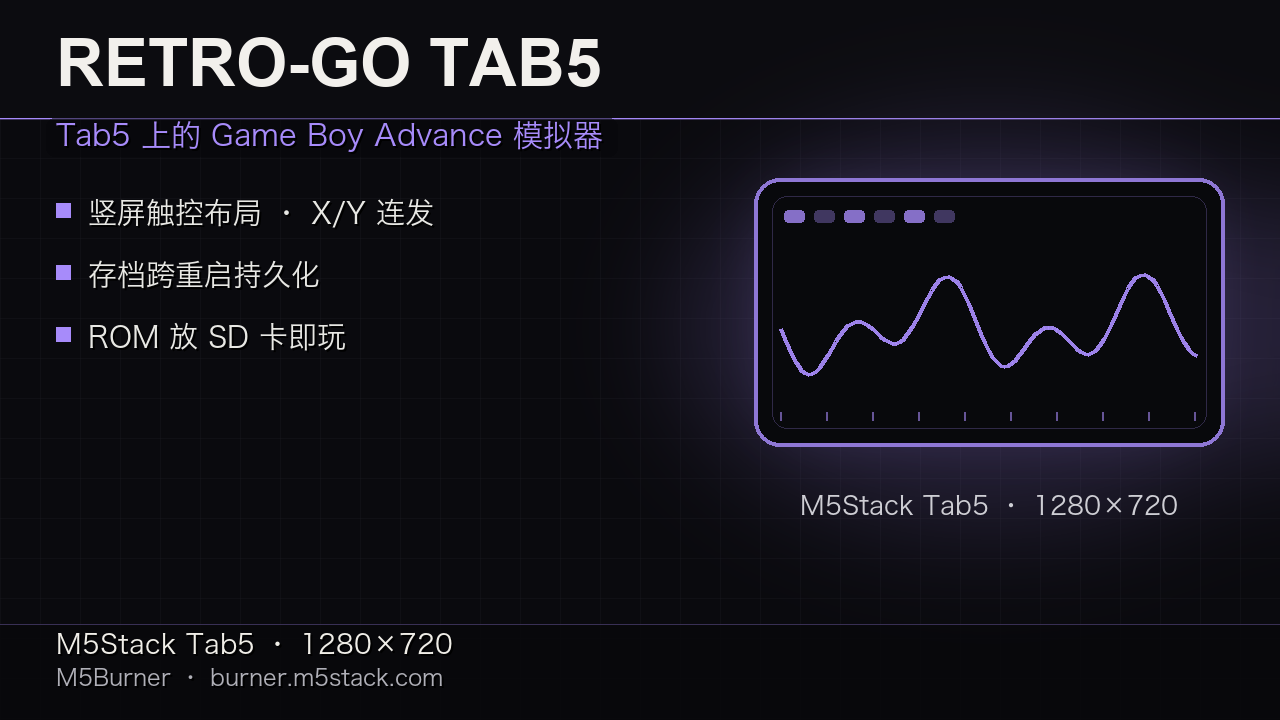
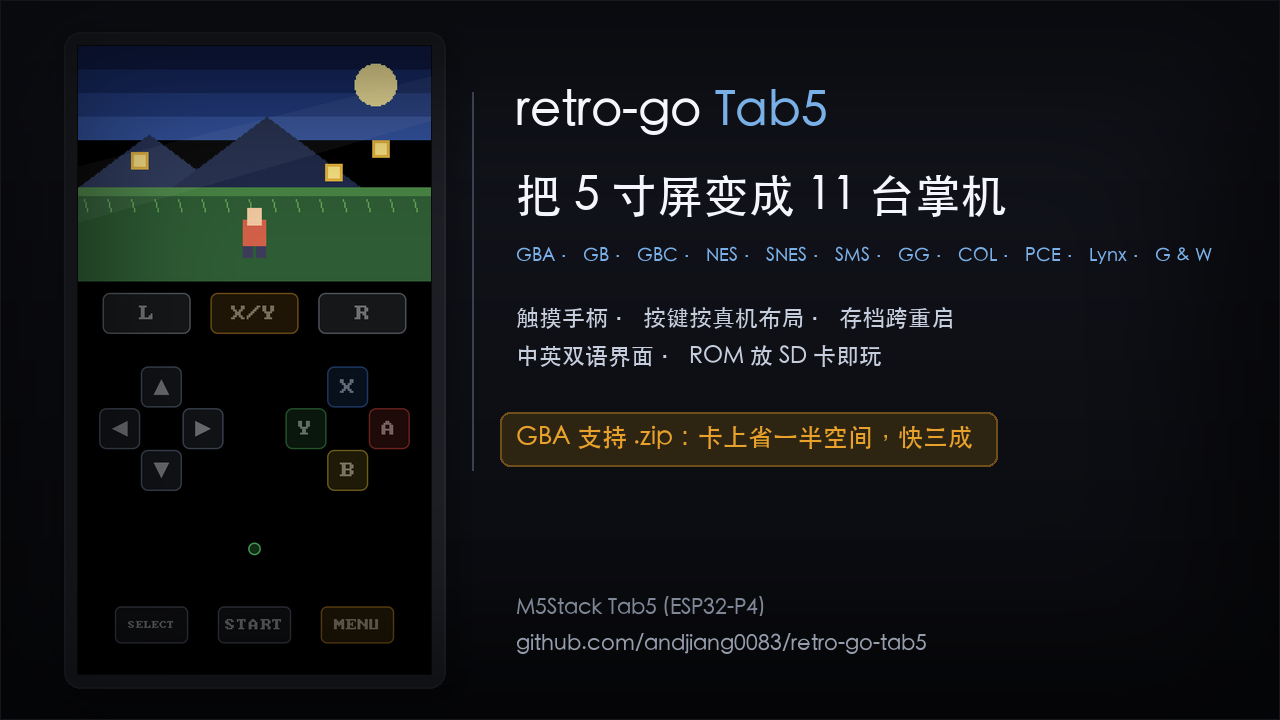
cover: 重做商店封面（11 机种 + 新增 zip）+ 入库封面生成器；修刷机脚本端口
改动摘要： 4 files changed, 211 insertions(+), 2 deletions(-)

M	publish.yaml
M	releases/cover-1280x720-retro-go-tab5-tab5.png
M	tools/flash-tab5.sh
A	tools/make-cover-1280.py

diff --git a/tools/make-cover-1280.py b/tools/make-cover-1280.py
@@ -1,0 +1,208 @@
+#!/usr/bin/env python3
+# -*- coding: utf-8 -*-
+"""生成 M5Burner 商店封面（1280×720 = burner.m5stack.com 规格）。
+
+为什么单独一个脚本：
+  上一张 1280×720 封面是临时手搓的，文案停留在"GBA 模拟器"时代（那时还只有 GBA），
+  而且 dist 包里那张甚至印着 v0.4.3 —— 两者都会过期。这里把封面变成**可复现产物**：
+    - 屏幕内容 = **真渲染**：复用 tools/preview-touch-overlay.py 的同一套键位表/字形/按键配方，
+      封面上的虚拟手柄与固件永远一致（不是画一张"差不多"的图）
+    - 文案改一处就够了（下面的 COPY 段），重新跑一次即可
+    - **不印版本号**：版本号只在条目里出现，封面跨版本复用（2026-10-08 定的纪律）
+
+用法:
+  python3 tools/make-cover-1280.py                       # 出 releases/ 规范封面
+  python3 tools/make-cover-1280.py --out /tmp/x.png      # 指定输出
+  python3 tools/make-cover-1280.py --palette B           # 换叠加层配色
+  python3 tools/make-cover-1280.py --also-dist 0.4.8     # 同时刷新 dist/m5burner-<ver>/cover-1280x720.png
+"""
+
+import argparse
+import importlib.util
+from pathlib import Path
+
+from PIL import Image, ImageDraw, ImageFont
+
+ROOT = Path(__file__).resolve().parent.parent
+W, H = 1280, 720
+
+# 复用预览工具的渲染（键位表 / 字形 / 按键与圆灯配方）—— 封面与固件同源
+_spec = importlib.util.spec_from_file_location("pv", ROOT / "tools/preview-touch-overlay.py")
+pv = importlib.util.module_from_spec(_spec)
+_spec.loader.exec_module(pv)
+
+FONT_CANDIDATES = (
+    "/System/Library/Fonts/STHeiti Medium.ttc",      # 本机实测可用（PingFang 在 macOS 26 上已不存在）
+    "/System/Library/Fonts/STHeiti Light.ttc",
+    "/System/Library/Fonts/Hiragino Sans GB.ttc",
+    "/System/Library/Fonts/PingFang.ttc",
+    "/System/Library/Fonts/Supplemental/Songti.ttc",
+    "/System/Library/Fonts/Helvetica.ttc",
+)
+
+# ---------------------------------------------------------------- 文案（改这里就够了）
+COPY = dict(
+    brand_a="retro-go",                       # 白
+    brand_b="Tab5",                           # 蓝
+    headline="把 5 寸屏变成 11 台掌机",
+    consoles="GBA · GB · GBC · NES · SNES · SMS · GG · COL · PCE · Lynx · G & W",
+    feat1="触摸手柄 · 按键按真机布局 · 存档跨重启",
+    feat2="中英双语界面 · ROM 放 SD 卡即玩",
+    chip="GBA 支持 .zip：卡上省一半空间，快三成",
+    dev="M5Stack Tab5 (ESP32-P4)",
+    url="github.com/andjiang0083/retro-go-tab5",
+)
+
+# 配色：底色偏冷，强调色沿用固件里的琥珀（电量灯那支）
+BG_TOP, BG_BOT = (20, 22, 30), (9, 10, 14)
+INK, INK_DIM, INK_MID = (244, 246, 252), (128, 136, 152), (198, 205, 220)
+ACCENT_BLUE = (122, 176, 232)
+ACCENT_WARM = (232, 162, 44)
+
+
+def font(size, bold=False):
+    """挑一个**真能画中文**的字体；找不到就报错，绝不静默退回位图字体（会出方块）。"""
+    for p in FONT_CANDIDATES:
+        if not Path(p).exists():
+            continue
+        try:
+            f = ImageFont.truetype(p, size)
+        except Exception:
+            continue
+        if f.getbbox("电量")[2] > 4:            # 有中文墨迹才认
+            if bold:
+                try:
+                    f.set_variation_by_name("Bold")
+                except Exception:
+                    pass
+            return f
+    raise SystemExit("✗ 找不到能画中文的系统字体")
+
+
+def device_screen(palette, alpha=48):
+    """720×1280 的真竖屏界面（游戏画面 + 触摸按键 + 电量圆灯），再缩到封面里的大小。
+
+    ⚠ alpha 是**叠加层自身的不透明度**：0 = 按键完全看不见（屏幕下半全黑）。
+      固件里这档值就是用户可调的"按键透明度"，封面取 48 让它既明显又不压游戏画面。
+    """
+    im = pv.render(alpha, palette, bg="game").convert("RGBA")
+    im.alpha_composite(pv.build_led(pv.LED_GREEN), (pv.LED_CX - 13, 1025 - 13))
+    return im.convert("RGB")
+
+
+def rounded(draw_img, box, radius, fill):
+    layer = Image.new("RGBA", draw_img.size, (0, 0, 0, 0))
+    ImageDraw.Draw(layer).rounded_rectangle(box, radius=radius, fill=fill)
+    draw_img.alpha_composite(layer)
+
+
+def shadow(canvas, box, radius, spread=14, alpha=110):
+    """设备下方/右侧的柔和投影 —— 只做深度，不做发光（发光在小屏上一眼塑料感）。"""
+    sh = Image.new("RGBA", canvas.size, (0, 0, 0, 0))
+    d = ImageDraw.Draw(sh)
+    for i, a in enumerate((alpha // 5, alpha // 3, alpha // 2)):
+        grow = spread - i * (spread // 3)
+        d.rounded_rectangle((box[0] - grow + 6, box[1] - grow + 10,
+                             box[2] + grow + 6, box[3] + grow + 10),
+                            radius=radius + grow, fill=(0, 0, 0, a))
+    canvas.alpha_composite(sh.filter(__import__("PIL.ImageFilter", fromlist=["GaussianBlur"])
+                                     .GaussianBlur(spread * 0.7)))
+
+
+def main():
+    ap = argparse.ArgumentParser()
+    ap.add_argument("--out", default=str(ROOT / "releases/cover-1280x720-retro-go-tab5-tab5.png"))
+    ap.add_argument("--palette", default="A", choices=("A", "B"))
+    ap.add_argument("--alpha", type=int, default=48, help="触摸叠加层不透明度（0=看不见）")
+    ap.add_argument("--also-dist", metavar="VERSION", default=None,
+                    help="同时刷新 dist/m5burner-<VERSION>/cover-1280x720.png")
+    args = ap.parse_args()
+
+    cover = Image.new("RGBA", (W, H), (0, 0, 0, 255))
+    d = ImageDraw.Draw(cover)
+    for y in range(H):                                  # 冷色竖向渐变（比纯黑有层次）
+        t = y / (H - 1)
+        d.line([(0, y), (W, y)],
+               fill=(int(BG_TOP[0] + (BG_BOT[0] - BG_TOP[0]) * t),
+                     int(BG_TOP[1] + (BG_BOT[1] - BG_TOP[1]) * t),
+                     int(BG_TOP[2] + (BG_BOT[2] - BG_TOP[2]) * t), 255))
+    d.rectangle([0, 0, W - 1, H - 1], outline=(44, 48, 60, 255))
+
+    # ---- 左：Tab5 竖屏设备（真渲染的屏幕）----
+    scr_w, scr_h = 353, 628                             # 720:1280 比例
+    sx, sy = 78, 46
+    shell = (sx - 14, sy - 14, sx + scr_w + 14, sy + scr_h + 14)
+    shadow(cover, shell, 16)
+    rounded(cover, shell, 16, (36, 38, 45, 255))        # 机身
+    rounded(cover, (shell[0] + 2, shell[1] + 2, shell[2] - 2, shell[3] - 2), 14, (28, 30, 36, 255))
+    pal = pv.PALETTE_A if args.palette == "A" else pv.PALETTE_B
+    cover.paste(device_screen(pal, args.alpha).resize((scr_w, scr_h), Image.LANCZOS), (sx, sy))
+    ImageDraw.Draw(cover).rectangle((sx - 1, sy - 1, sx + scr_w, sy + scr_h), outline=(10, 11, 14, 255))
+
+    # 屏幕玻璃反光：一条很淡的斜带（只做"这是块屏"的暗示，不做发光 —— 小屏上发光一眼塑料感）
+    gloss = Image.new("RGBA", cover.size, (0, 0, 0, 0))
+    ImageDraw.Draw(gloss).polygon([(sx, sy + 120), (sx + scr_w, sy + 30),
+                                   (sx + scr_w, sy + 74), (sx, sy + 176)],
+                                  fill=(255, 255, 255, 12))
+    cover.alpha_composite(gloss)
+
+    # 四角轻微压暗（纵向渐变之外的层次）
+    vig = Image.new("L", (W, H), 0)
+    vd = ImageDraw.Draw(vig)
+    for i in range(170):
+        vd.rectangle([i, i, W - 1 - i, H - 1 - i], outline=int(150 * (1 - i / 170)))
+    cover.alpha_composite(Image.merge("RGBA", (
+        Image.new("L", (W, H), 0), Image.new("L", (W, H), 0), Image.new("L", (W, H), 0),
+        vig.filter(__import__("PIL.ImageFilter", fromlist=["GaussianBlur"]).GaussianBlur(48)))))
+
+    # ---- 分隔线 ----
+    d.line([(472, 92), (472, 470)], fill=(58, 64, 82, 255), width=2)
+
+    # ---- 右：文案 ----
+    tx = 516
+    d.text((tx, 86), COPY["brand_a"], font=font(48, True), fill=INK)
+    wa = d.textlength(COPY["brand_a"], font=font(48, True))
+    d.text((tx + wa + 14, 86), COPY["brand_b"], font=font(48, True), fill=ACCENT_BLUE)
+
+    d.text((tx, 172), COPY["headline"], font=font(46, True), fill=INK)
+
+    # 机种清单：自动缩到放得下（放不下就拆两行）—— 防止右边被切掉（本轮踩过）
+    max_w = 1230 - tx
+    csize = 23
+    while csize > 18 and d.textlength(COPY["consoles"], font=font(csize)) > max_w:
+        csize -= 1
+    if d.textlength(COPY["consoles"], font=font(csize)) > max_w:
+        parts = [p.strip() for p in COPY["consoles"].split("·")]
+        half = len(parts) // 2 + len(parts) % 2
+        d.text((tx, 240), " · ".join(parts[:half]), font=font(csize), fill=ACCENT_BLUE)
+        d.text((tx, 272), " · ".join(parts[half:]), font=font(csize), fill=ACCENT_BLUE)
+        y1 = 320
+    else:
+        d.text((tx, 246), COPY["consoles"], font=font(csize), fill=ACCENT_BLUE)
+        y1 = 306
+    d.text((tx, y1), COPY["feat1"], font=font(23), fill=INK_MID)
+    d.text((tx, y1 + 38), COPY["feat2"], font=font(23), fill=INK_MID)
+
+    fchip = font(25)
+    cw = d.textlength(COPY["chip"], font=fchip)
+    chip_box = (tx - 16, 412 if y1 == 306 else 430, tx + cw + 24, (412 if y1 == 306 else 430) + 54)
+    rounded(cover, chip_box, 10, (46, 36, 18, 255))
+    d.rounded_rectangle(chip_box, radius=10, outline=(112, 78, 26, 255), width=2)
+    d.text((tx, chip_box[1] + 12), COPY["chip"], font=fchip, fill=ACCENT_WARM)
+
+    d.text((tx, 596), COPY["dev"], font=font(21), fill=INK_DIM)
+    d.text((tx, 632), COPY["url"], font=font(21), fill=(150, 158, 174))
+
+    out = Path(args.out)
+    out.parent.mkdir(parents=True, exist_ok=True)
+    cover.convert("RGB").save(out)
+    print("wrote", out, cover.size)
+    if args.also_dist:
+        dst = ROOT / f"dist/m5burner-{args.also_dist}/cover-1280x720.png"
+        dst.parent.mkdir(parents=True, exist_ok=True)
+        cover.convert("RGB").save(dst)
+        print("wrote", dst)
+
+
+if __name__ == "__main__":
+    main()
